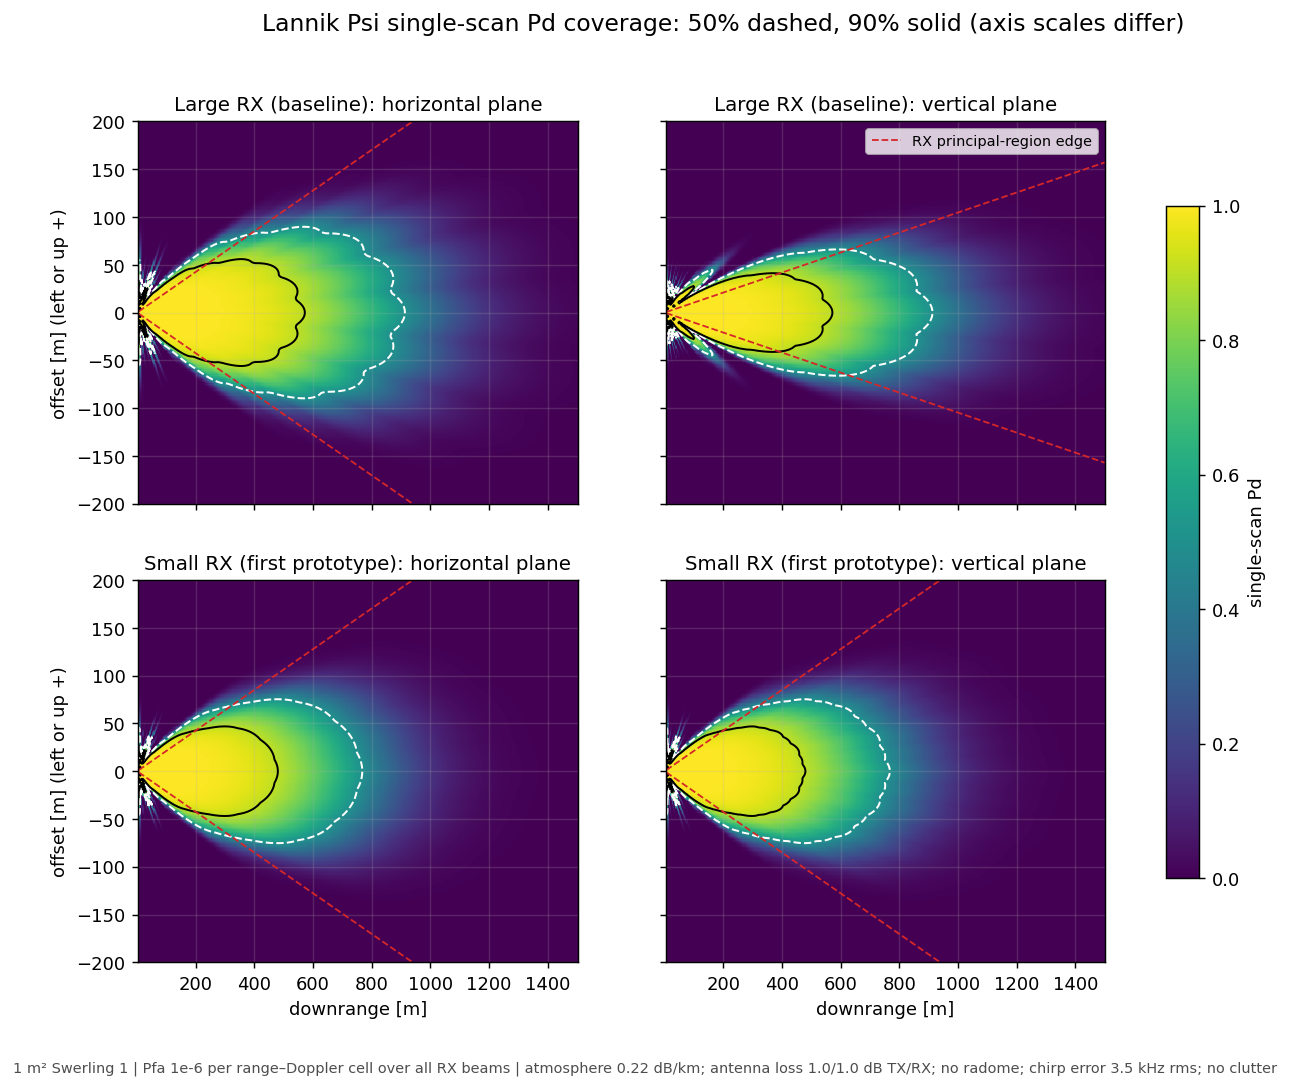
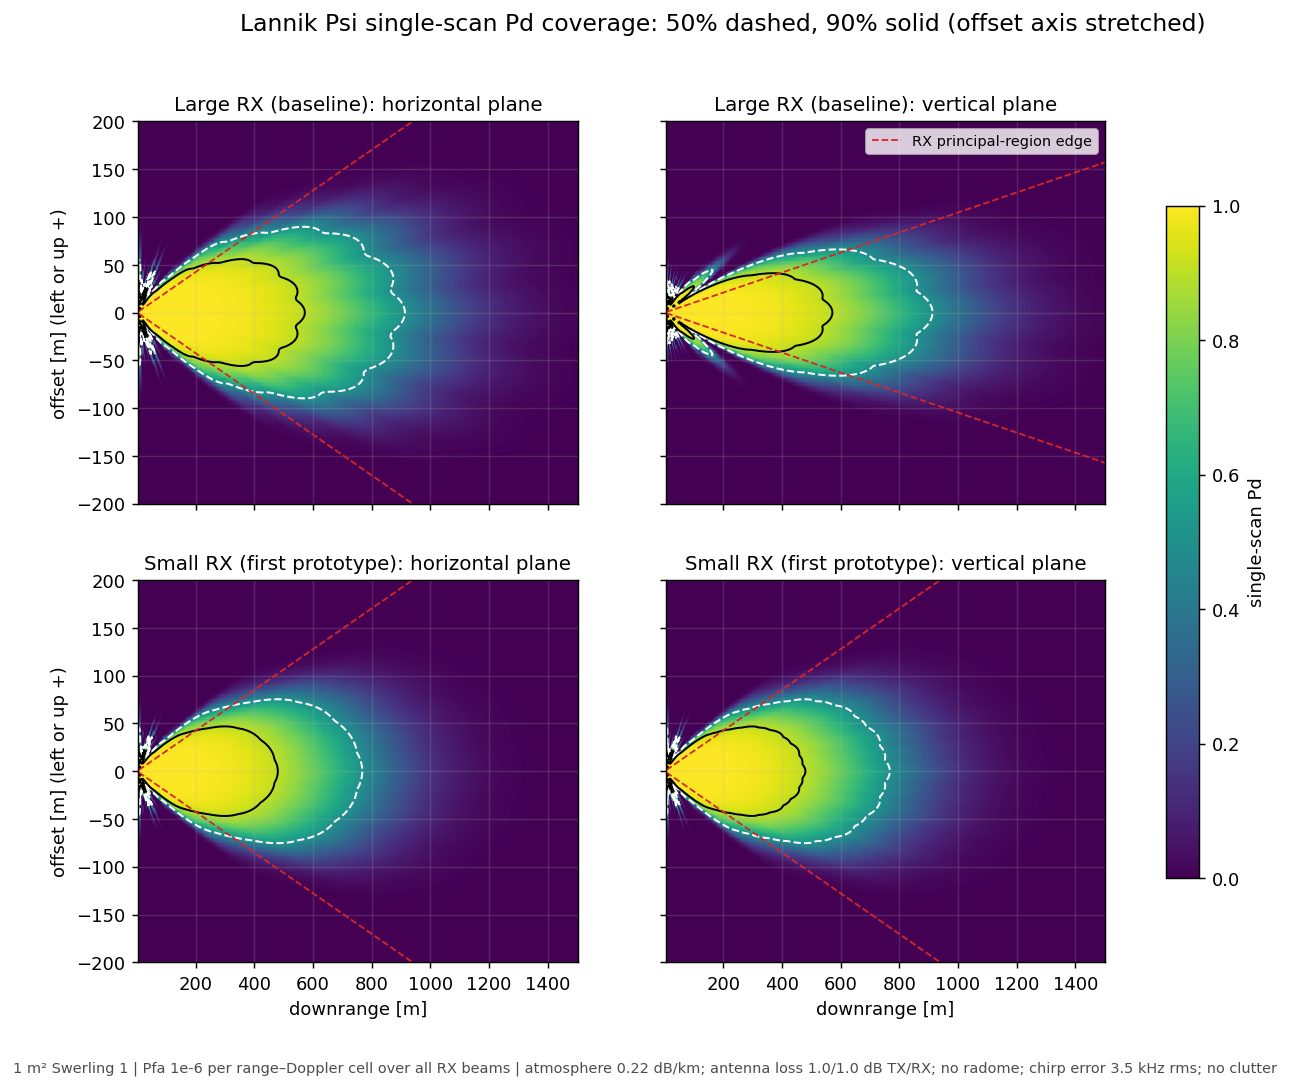
Fix review findings in the Lannik Psi wrap-up
The lannik_psi.py docstring again names the large variant as the baseline
and gives the off-axis reference as 6 degrees rather than the use case's
+/-8. The sensitivities are printed for both RX variants, with a row that
combines the 0.8 dB radome and 1 dB TX derating (789 / 493 m, -13.6%),
which corrects the README's 13% to 14%. NOTES.md now states the small
variant's rain and chirp-error costs (8.5% and 8.7% at Pd 50%, against
9.9% and 11.3% for the large variant) instead of an unqualified 1-1.5
percentage points.

quadrant_mimo.py uses the small variant's own per-beam Pfa for the RX
height trade (0.09 dB) and prints its boresight MIMO ranges, the
547 / 341 m quoted in MIMO.md. Smaller fixes: the README places the 23.5
and 21.5 dBi figures at 77 GHz, the NOTES variant table gives the large
variant's straddle as 0.69 / 0.25 dB, Pacq is labelled as an illustration,
and the coverage summary title says the offset axis is stretched.

Changed region(s): [[0.186, 0.0, 0.9302, 0.0312]]

diff --git a/studies/2026-09-02_lannik-psi/lannik_psi.py b/studies/2026-09-02_lannik-psi/lannik_psi.py
@@ -13,8 +13,8 @@ and, under an interactive Matplotlib backend, opens the figures.
 
 Scenario
 --------
-* Target: 1 m^2 RCS, Swerling 1, at boresight and at the edges of the
-  customer use case's +/-8 degree field of view.
+* Target: 1 m^2 RCS, Swerling 1, at boresight and 6 degrees off boresight
+  horizontally and vertically (``OFF_AXIS_REFERENCE_DEG``).
 * Acquisition: closing at 15 m/s, 20 Hz frame rate, 2-of-3 confirmation.
 * Pfa = 1e-6 per range-Doppler cell over all RX beams; ``per_beam_pfa``
   converts it to the per-beam value for each beam set.
@@ -28,7 +28,8 @@ of the run. The plot is zoomed to the product's detection range.
 The plotted product is the large RX variant, modelled without its column
 stagger: the computational baseline for range performance. The small RX
 variant (2 x 4 square subarrays), ordered first as a project choice, is the
-main comparison; the printed checkpoints and field-of-view ranges cover both.
+main comparison; the printed checkpoints, off-axis ranges and sensitivities
+cover both.
 
 Changes from the 2026-06-22 config-3 baseline
 ----------------------------------------------
@@ -41,10 +42,10 @@ Changes from the 2026-06-22 config-3 baseline
   with the fourth root of power).
 * RX antenna: the previous 17 dBi constant-gain channel placeholder has been
   replaced by an analytical uniform rectangular subarray pattern plus the
-  steered array factor of a parametric eight-channel URA. Until 2026-10-01 the
-  baseline used the supplied 2.42 x 4.83-lambda rectangular subarrays in a
-  densely packed 4 x 2 layout, giving 30.5 dBi effective boresight RX gain
-  with ideal coherent combination of the 8 RX channels in processing.
+  steered array factor of a parametric eight-channel URA. The baseline, the
+  large variant, uses the supplied 2.42 x 4.83-lambda rectangular subarrays in
+  a densely packed 4 x 2 layout. Ideal coherent combination of the 8 RX
+  channels remains in processing, giving 30.5 dBi effective boresight RX gain.
 * Front end, waveform and evaluation scenario: unchanged.
 * Boresight range checkpoints (Pd=50%/90%; Pacq=50%/90%): the June baseline was
   994/614 m and 1474/1372 m; after introducing only the TX aperture it was
@@ -1124,7 +1125,7 @@ def print_diagnostics(product: Product, acq: AcquisitionSweep) -> None:
     for level in DETECTION_LEVELS:
         print(
             f"  Pacq {level:.0%} (2-of-3)  : "
-            f"{format_range_m(pacq_ranges[level]):>7}"
+            f"{format_range_m(pacq_ranges[level]):>7}  (illustration)"
         )
     if np.isfinite(pd09) and unambiguous_range_m < pd09:
         print(
@@ -1156,7 +1157,7 @@ def plot_product(product: Product, acq: AcquisitionSweep, path: Path) -> None:
     ax.plot(
         acq.range_m,
         acq.confirmation_pd,
-        label=f"Pacq 2-of-3 ({format_level_ranges(pacq_ranges)})",
+        label=f"Pacq 2-of-3, illustration ({format_level_ranges(pacq_ranges)})",
     )
     for level in DETECTION_LEVELS:
         ax.axhline(level, color="0.6", lw=0.8, ls=":")
@@ -2213,8 +2214,14 @@ def breakdown_products() -> tuple[tuple[str, Product], ...]:
     )
 
 
-def sensitivity_products() -> tuple[tuple[str, Product], ...]:
-    """Single-term changes to the large-RX baseline: losses and adverse effects."""
+def sensitivity_products(
+    rx_layout: RxAntennaLayout = RX_LAYOUT,
+) -> tuple[tuple[str, Product], ...]:
+    """Changes to one RX variant's baseline: losses and adverse effects.
+
+    Each row changes one term, except the last, which combines two to show that
+    losses add in dB.
+    """
     # Rain attenuation only (ITU-R P.838-3); the toolbox's rain clutter model is
     # not validated at 77 GHz.
     light_rain = Atmosphere(
@@ -2224,26 +2231,41 @@ def sensitivity_products() -> tuple[tuple[str, Product], ...]:
         )
     )
     return (
-        ("Baseline", lannik_psi()),
+        ("Baseline", lannik_psi(rx_layout)),
         (
             "TX power -1 dB",
-            lannik_psi(losses=replace(LOSSES, tx_power_derating_db=1.0)),
+            lannik_psi(rx_layout, losses=replace(LOSSES, tx_power_derating_db=1.0)),
         ),
-        ("NF 9.7 dB", lannik_psi(noise_figure_db=9.7)),
-        ("NF 13.2 dB", lannik_psi(noise_figure_db=13.2)),
+        ("NF 9.7 dB", lannik_psi(rx_layout, noise_figure_db=9.7)),
+        ("NF 13.2 dB", lannik_psi(rx_layout, noise_figure_db=13.2)),
         (
             "Radome 0.8 dB one way",
-            lannik_psi(losses=replace(LOSSES, radome_one_way_loss_db=0.8)),
+            lannik_psi(rx_layout, losses=replace(LOSSES, radome_one_way_loss_db=0.8)),
         ),
-        ("Sea-level standard atmosphere", lannik_psi(environment=Atmosphere())),
-        ("Light rain, 1 mm/h", lannik_psi(environment=light_rain)),
+        (
+            "Sea-level standard atmosphere",
+            lannik_psi(rx_layout, environment=Atmosphere()),
+        ),
+        ("Light rain, 1 mm/h", lannik_psi(rx_layout, environment=light_rain)),
         (
             "Chirp frequency error 21 kHz",
-            lannik_psi(losses=replace(LOSSES, chirp_frequency_error_rms_hz=21.0e3)),
+            lannik_psi(
+                rx_layout,
+                losses=replace(LOSSES, chirp_frequency_error_rms_hz=21.0e3),
+            ),
         ),
         (
             "Pfa 1e-6 per beam (multiple tests ignored)",
-            lannik_psi(pfa_per_beam=EARLIER_PFA_PER_BEAM),
+            lannik_psi(rx_layout, pfa_per_beam=EARLIER_PFA_PER_BEAM),
+        ),
+        (
+            "Radome 0.8 dB and TX power -1 dB together",
+            lannik_psi(
+                rx_layout,
+                losses=replace(
+                    LOSSES, radome_one_way_loss_db=0.8, tx_power_derating_db=1.0
+                ),
+            ),
         ),
     )
 
@@ -2292,15 +2314,18 @@ def print_range_breakdown() -> None:
         previous = ranges
 
 
-def print_sensitivities() -> None:
-    """Print the boresight Pd ranges of single-term changes to the baseline."""
-    print("\nSensitivities, large-RX baseline, boresight single-scan Pd = 50% / 90%")
+def print_sensitivities(rx_layout: RxAntennaLayout = RX_LAYOUT) -> None:
+    """Print the boresight Pd ranges of changes to one RX variant's baseline."""
+    print(
+        f"\nSensitivities, {variant_name(rx_layout)}, boresight single-scan "
+        "Pd = 50% / 90%"
+    )
     print(
         "| Change | Pd range | Pd=50% vs baseline | Equivalent dB | Pd=90% vs baseline |"
     )
     print("|---|---:|---:|---:|---:|")
     baseline: dict[float, float] = {}
-    for label, product in sensitivity_products():
+    for label, product in sensitivity_products(rx_layout):
         ranges = pd_ranges(product)
         if label == "Baseline":
             baseline = ranges
@@ -2415,7 +2440,7 @@ def plot_coverage_summary(
     fig.colorbar(mesh, ax=axes, label="single-scan Pd", shrink=0.8)
     fig.suptitle(
         "Lannik Psi single-scan Pd coverage: 50% dashed, 90% solid "
-        "(axis scales differ)",
+        "(offset axis stretched)",
         fontsize=13,
     )
     fig.text(
@@ -2515,7 +2540,8 @@ def main() -> None:
     small = lannik_psi(RX_SQUARE_LAYOUT)
     print_range_breakdown()
     print_off_axis_ranges((product, small))
-    print_sensitivities()
+    for layout in (RX_SUPPLIED_LAYOUT, RX_SQUARE_LAYOUT):
+        print_sensitivities(layout)
     print_acquisition_illustration(product)
     for layout in (RX_SUPPLIED_LAYOUT, RX_SQUARE_LAYOUT):
         print_beam_pfa_trade(layout)

diff --git a/studies/2026-09-02_lannik-psi/quadrant_mimo.py b/studies/2026-09-02_lannik-psi/quadrant_mimo.py
@@ -48,6 +48,7 @@ from lannik_psi import (
     TARGET,
     BoresightSinr,
     CoverageCut,
+    Product,
     RxAntennaLayout,
     lannik_psi,
     load_tx_antenna,
@@ -346,6 +347,24 @@ def mimo_tx_gain_dbi(
     )
 
 
+def required_detection_snr_db(product: Product) -> tuple[float, ...]:
+    """Required SNR [dB] at each detection level, at the product's per-beam Pfa."""
+    processing_budget = product.radar.processing.budget(
+        product.waveform,
+        product.radar.frontend.n_tx,
+        product.radar.frontend.n_rx,
+    )
+    return tuple(
+        required_snr_db(
+            level,
+            product.radar.default_pfa,
+            swerling=TARGET.swerling,
+            n_pulses=processing_budget.n_noncoherent,
+        )
+        for level in DETECTION_LEVELS
+    )
+
+
 def range_at_required_snr(
     boresight: BoresightSinr,
     relative_gain_db: FloatArray,
@@ -485,7 +504,14 @@ def compute_rx_height_trade(
     square_boresight: BoresightSinr,
     detection_snr_db: tuple[float, ...],
 ) -> RxHeightTrade:
-    """Sweep dense RX subarray height and evaluate its vertical cell edge."""
+    """Sweep dense RX subarray height and evaluate its vertical cell edge.
+
+    Every height uses the square variant's boresight curve and its detection
+    thresholds (``detection_snr_db``, at its per-beam Pfa). Taller subarrays
+    form fewer beams; at the supplied height the large variant's own per-beam
+    Pfa would lower the thresholds by about 0.1 dB. Binary resolution involves
+    no false-alarm threshold.
+    """
     wavelength_m = SPEED_OF_LIGHT / CENTER_FREQUENCY_HZ
     square_height_lambda = RX_SOURCE_SUBARRAY_WIDTH_M / wavelength_m
     source_height_lambda = RX_SOURCE_SUBARRAY_HEIGHT_M / wavelength_m
@@ -1147,6 +1173,8 @@ def print_range_diagnostics(
     quadrants: tuple[TxQuadrant, ...],
     cuts: tuple[MimoRangeCut, ...],
     height_trade: RxHeightTrade,
+    square_boresight: BoresightSinr,
+    square_detection_snr_db: tuple[float, ...],
 ) -> None:
     """Print boresight sensitivity and representative resolution ranges."""
     coherent_gain_db = float(tx_antenna.gain_dbi_uv(0.0, 0.0))
@@ -1196,6 +1224,16 @@ def print_range_diagnostics(
         f"{height_trade.alias_correlation_db[square_index]:.1f} dB): "
         f"{square_ranges_text}"
     )
+    square_mimo_ranges_m = square_boresight.range_at(
+        np.asarray(square_detection_snr_db) - (mimo_gain_db - coherent_gain_db)
+    )
+    print(
+        "  square comparison boresight MIMO, Pd="
+        + " / ".join(f"{level:.0%}" for level in DETECTION_LEVELS)
+        + ": "
+        + " / ".join(f"{range_m:.0f}" for range_m in square_mimo_ranges_m)
+        + " m"
+    )
 
 
 def main() -> None:
@@ -1209,20 +1247,7 @@ def main() -> None:
     if not isinstance(rx_antenna, MultiBeamUniformArrayAntenna):
         raise TypeError("Lannik Psi RX must be a MultiBeamUniformArrayAntenna")
     boresight = BoresightSinr.of(product)
-    processing_budget = product.radar.processing.budget(
-        product.waveform,
-        product.radar.frontend.n_tx,
-        product.radar.frontend.n_rx,
-    )
-    detection_snr_db = tuple(
-        required_snr_db(
-            level,
-            product.radar.default_pfa,
-            swerling=TARGET.swerling,
-            n_pulses=processing_budget.n_noncoherent,
-        )
-        for level in DETECTION_LEVELS
-    )
+    detection_snr_db = required_detection_snr_db(product)
     range_cuts = tuple(
         compute_mimo_range_cut(
             cut,
@@ -1236,13 +1261,21 @@ def main() -> None:
     )
     square_product = lannik_psi(RX_SQUARE_LAYOUT)
     square_boresight = BoresightSinr.of(square_product)
+    square_detection_snr_db = required_detection_snr_db(square_product)
     height_trade = compute_rx_height_trade(
         tx_antenna,
         quadrants,
         square_boresight,
-        detection_snr_db,
+        square_detection_snr_db,
     )
-    print_range_diagnostics(tx_antenna, quadrants, range_cuts, height_trade)
+    print_range_diagnostics(
+        tx_antenna,
+        quadrants,
+        range_cuts,
+        height_trade,
+        square_boresight,
+        square_detection_snr_db,
+    )
     generated_dir = Path(__file__).parent / "generated" / "mimo"
     generated_dir.mkdir(parents=True, exist_ok=True)
     plot_left_right_half_beams(

diff --git a/studies/2026-09-02_lannik-psi/NOTES.md b/studies/2026-09-02_lannik-psi/NOTES.md
@@ -208,7 +208,8 @@ system loss is 2.10 dB (2.02 dB antenna, 0.08 dB chirp coherence) and the
 two-way atmospheric loss 0.40 dB. `lannik_psi.py` prints the itemised link
 budget at the Pd 90% range.
 
-**Sensitivities** on the large-RX baseline, each changing one term:
+**Sensitivities** on the large-RX baseline, each changing one term except the
+last, which combines two:
 
 | Change | Pd range (50% / 90%) | Pd 50% change | Equivalent SNR | Pd 90% change |
 |---|---:|---:|---:|---:|
@@ -221,9 +222,14 @@ budget at the Pd 90% range.
 | Light rain, 1 mm/h (P.838-3 attenuation added) | 823 / 534 m | −9.9% | −1.80 dB | −6.6% |
 | Per-chirp frequency error 21 kHz | 809 / 541 m | −11.3% | −2.09 dB | −5.4% |
 | Pfa `1e-6` per beam test (multiple testing ignored) | 974 / 608 m | +6.7% | +1.12 dB | +6.4% |
+| Radome 0.8 dB one way and TX power 1 dB lower, together | 789 / 493 m | −13.6% | −2.53 dB | −13.8% |
 
-The small variant's sensitivities are similar. Rain and the chirp error cost it
-1–1.5 percentage points less, because its ranges are shorter.
+`lannik_psi.py` prints the same table for the small variant. Fixed-dB terms
+cost it practically the same fraction of range. Rain and the chirp error cost
+it less, because its ranges are shorter: at Pd 50%, 8.5% for light rain and
+8.7% for the 21 kHz error, against 9.9% and 11.3% for the large variant; at
+Pd 90%, 5.6% and 3.9%, against 6.6% and 5.4%. Ignoring the multiple testing
+would gain it 7.2% rather than 6.7%, because it forms more beams.
 
 The radome value is the upper end of the one published radome example in
 `docs/losses.md` (1.2–1.6 dB two way); it is an example, not a typical value.
@@ -369,7 +375,7 @@ column stagger, which changes neither gain nor beamwidth):
 | Principal region | ±12.0° az × ±12.0° el | ±12.0° az × ±6.0° el |
 | RX beams formed | 128 (8 × 8 + offset copy) | 64 (8 × 4 + offset copy) |
 | Effective false-alarm tests per cell | 80 | 56 |
-| Worst / mean beam-straddle loss | 0.30 / 0.12 dB | 0.70 dB worst |
+| Worst / mean beam-straddle loss | 0.30 / 0.12 dB | 0.69 / 0.25 dB |
 
 Values are at 76.5 GHz. The large rectangle, without its stagger, has been the
 plotted product and computational baseline since 2026-09-04; ordering the
@@ -488,7 +494,7 @@ variant at 6° elevation.
 
 **Result:** Within one fundamental steering cell, the large variant's 64-beam
 interleaved RX grid has a worst sampled beam-straddling loss of approximately
-0.70 dB. In a free-space radar equation this corresponds to approximately 3.9%
+0.7 dB. In a free-space radar equation this corresponds to approximately 3.9%
 range loss. The small variant's 128-beam grid loses at most 0.30 dB (1.7%);
 along the principal cuts its range ripple is at most 1.7% in elevation and
 1.0% in azimuth. Beam density also sets the multiple-testing cost; the two

diff --git a/studies/2026-09-02_lannik-psi/README.md b/studies/2026-09-02_lannik-psi/README.md
@@ -119,10 +119,12 @@ with range, such as the atmosphere, it is their effective value at that
 range. Fixed-dB terms move the Pd 50% and 90% ranges by the same ratio; terms
 that grow with range cost more at the longer Pd 50% range.
 
-The proposed TX aperture has 23.5 dBi directivity. The placeholder's ideal
-array of eight 17 dBi elements has 26 dBi, so the TX aperture costs 2.5 dB:
-its defocus phase widens the beam. The large RX subarrays, 21.5 dBi against
-the 17 dBi placeholder per channel, more than make up for that, by 4.5 dB.
+The steps before the 76.5 GHz row are at 77 GHz, the frequency of the
+supplied antenna data. There the proposed TX aperture has 23.5 dBi
+directivity. The placeholder's ideal array of eight 17 dBi elements has
+26 dBi, so the TX aperture costs 2.5 dB: its defocus phase widens the beam.
+The large RX subarrays, 21.5 dBi against the 17 dBi placeholder per channel,
+more than make up for that, by 4.5 dB.
 Forming 64 beams to cover the RX principal region takes back 1.2 dB of it.
 Holding the false-alarm probability per range–Doppler cell means testing each
 beam at a lower Pfa (see [NOTES.md](NOTES.md), "False alarms over the RX
@@ -145,8 +147,8 @@ Pd 50% range and the equivalent SNR change:
 | Sea-level instead of 1000 m atmosphere | −1.3% | −0.2 dB |
 | Noise figure 9.7 dB (our reading of the +3 dB RX gain setting) | +2.8% | +0.5 dB |
 
-Losses combine in dB. A 0.8 dB radome and 1 dB of TX derating together would
-cost about 2.5 dB, 13% of range. Rain and the chirp error grow with range, so
+Losses combine in dB. A 0.8 dB radome and 1 dB of TX derating together cost
+2.5 dB, 14% of range. Rain and the chirp error grow with range, so
 they cost more at the Pd 50% range than at shorter ones; at the Pd 90% range
 the 21 kHz chirp error costs 5.4% and light rain 6.6%.
 
